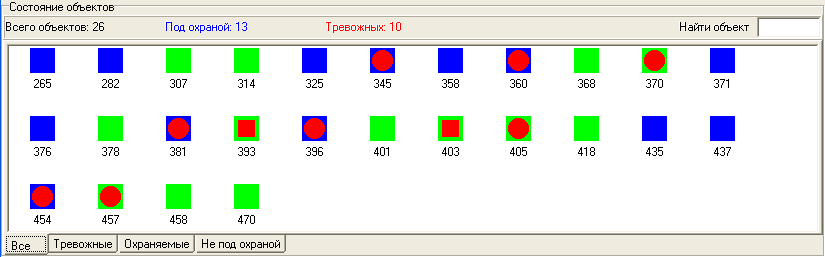
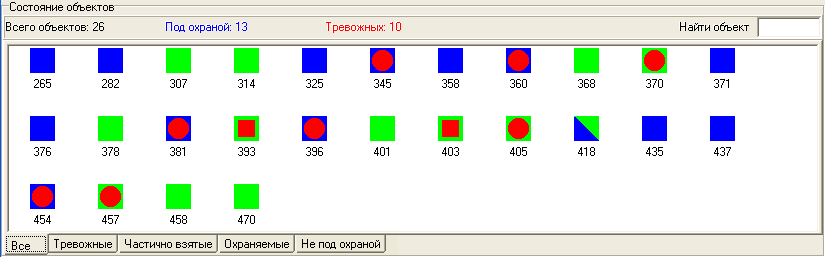
Частично взятые объекты в модуле "Дежурный оператор"

Changed region(s): [[0.1515, 0.9027, 0.4848, 0.9961], [0.697, 0.4669, 0.7273, 0.5603]]

diff --git a/russian/09-duty-operator.md b/russian/09-duty-operator.md
@@ -36,7 +36,7 @@
  
 ![Окно «Состояние объектов», вкладка «Все объекты»][id-09-02-01]
 
-Охраняемые объекты отображаются в модуле «Дежурный оператор» в виде пиктограмм в окне «Состояние объектов». Цвет пиктограммы отображает текущее состояние объекта. Если он синий, то объект поставлен под охрану, зеленый — снят с охраны, серый — объект отключен. Красный круг или квадрат, означают, что по объекту есть тревога, отработка которой еще не завершена, при этом красный круг означает, что по этой тревоге еще не зарегистрировано ни одного действия. 
+Охраняемые объекты отображаются в модуле «Дежурный оператор» в виде пиктограмм в окне «Состояние объектов». Цвет пиктограммы отображает текущее состояние объекта. Если он синий, то объект поставлен под охрану, зеленый — снят с охраны, серый — объект отключен. Если одна часть пиктограммы синего цвета, а другая - зеленого, объект взят на охрану частично. Красный круг или квадрат, означают, что по объекту есть тревога, отработка которой еще не завершена, при этом красный круг означает, что по этой тревоге еще не зарегистрировано ни одного действия. 
 
 Необходимо помнить, что тревоги, полученные с отключенных объектов, отрабатываются системой автоматически, непосредственно при получении. События постановки и снятия, полученные от отключенных объектов, также не меняют их состояния. Таким образом, отключенный объект не может быть ни тревожным, ни взятым под охрану, ни снятым с нее. Он всегда отображается пиктограммой серого цвета.
 
@@ -45,7 +45,9 @@
 
 - на вкладке «Тревожные» отображаются объекты, по которым есть неотработанные тревоги;
 
-- на вкладка «Охраняемые» отображаются объекты, находящиеся в настоящий момент под охраной
+- на вкладке «Частично взятые» отображаются объекты, взятые под охрану частично - в этом случае охраняется не весь объект, а только его определенные зоны;
+
+- на вкладка «Охраняемые» отображаются объекты, находящиеся в настоящий момент под охраной;
 
 - на вкладке «Не под охраной» отображаются объекты, которые в настоящий момент сняты с охраны, либо объекты, состояние которых не определено, так как от них никогда не было получено событий о постановке или снятии.
 
